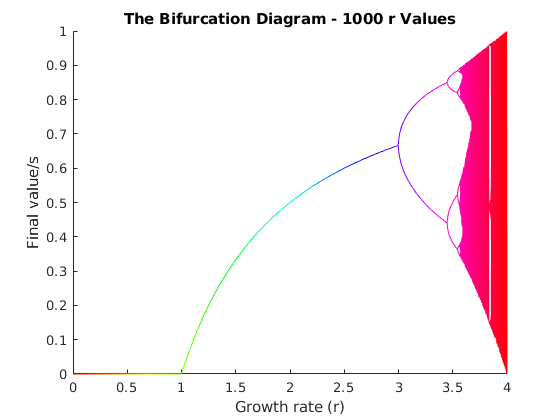
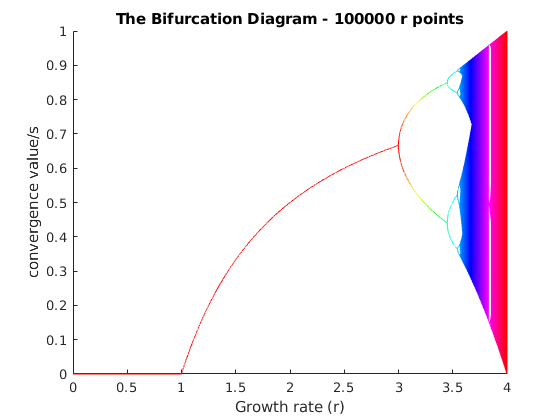
refactored to make the color gradient must faster

diff --git a/a2_chaos/chaos_small.m b/a2_chaos/chaos_small.m
@@ -22,16 +22,23 @@ tic
 iterations = 1000;
 
 %%% Number of points in the X axis; Larger = more resolution
-xRes = 1e4;
+xRes = 1e5;
 
-%%% NUmber of points in the Y axis; Larger = more resolution
+%%% Number of points in the Y axis; Larger = more resolution
 yRes = 64;
+
+%%% Set to 1 to apply a colormap to the output plot, anything else is a mono
+%%% color plot
+colorGraph = 1;
+
+%%% The color map to use if colorGraph is set to 1
+cMap = 'hsv';
 
 %%%%%%%%%%%%%%%%%%%%%%%%%%%%%%%%%%%%%%%%%%%%%%%%%%%%%%%%%%%%%%%%%%%%%%%%%%%%%%%%
 
 %%% Sets the limits on the growth rate to be between 0 and 4 since outside of
 %%% that range nothing happens. there will be xRes number of points in the array
-r = linspace(0, 4, xRes);
+r = ones(65,1) .* linspace(0, 4, xRes);
 
 %%% Preinitilizes X and gives it a starting value of 0.5. The starting value
 %%% does not actually matter, as long as it is not 0 or 1 since the final value
@@ -43,29 +50,24 @@ X = 0.5 .* ones(yRes, xRes);
 for i = 2:1:(iterations  + yRes)
   	cur = 1 + mod(i, yRes + 1);
     las = 1 + mod(i - 1, yRes + 1);
-    X(cur,:) = r .* X(las,:) .* (1 - X(las,:));
+    X(cur,:) = r(1,:) .* X(las,:) .* (1 - X(las,:));
 end
+X(:,end) = NaN;
 
 %%% Call It UI %%%%%%%%%%%%%%%%%%%%%%%%%%%%%%%%%%%%%%%%%%%%%%%%%%%%%%%%%%%%%%%%%
-line(r, X, 'Color', 'blue');
-%%lineXColor(r, X, 'hsv');
+if (colorGraph == 1)
+	colormap(cMap);
+	C(:,(3 * xRes / 4):xRes) = ones(65,1) .* (0:4/xRes:1);
+	patch(r', X', C', 'EdgeColor', 'interp', 'LineWidth', 0.5);
+else
+	line(r(1,:), X, 'Color', 'blue');
+end
+
 set(gca, 'XLim', [0 4], 'YLim', [0 1]);
-title(['The Bifurcation Diagram - ' num2str(xRes) ' r Values']);
+title(['The Bifurcation Diagram - ' num2str(xRes) ' r points']);
 xlabel("Growth rate (r)");
-ylabel("Final value/s");
+ylabel("convergence value/s");
 %%%%%%%%%%%%%%%%%%%%%%%%%%%%%%%%%%%%%%%%%%%%%%%%%%%%%%%%%%%%%%%%%%%%%%%%%%%%%%%%
 
 %%% See What's Become Of Me
 toc
-
-%%% This will plot the bifurcation diagram with a gradiant color on the x axis
-%%% but it is VERY slow since MATLAB doesn't allow multiple colors per line, so
-%%% it has to plot a new line between each point.
-function lineXColor(x, y, cmap)
-numPoints = length(x);
-pointColor = max(1, round( (0:numPoints) ./ numPoints .* 256));
-cmp = colormap(cmap);
-for i = 1:(numPoints - 1)
-	line([x(i) x(i + 1)], [y(:, i) y(:, i + 1)], "color", cmp(pointColor(i),:) )
-end
-end
